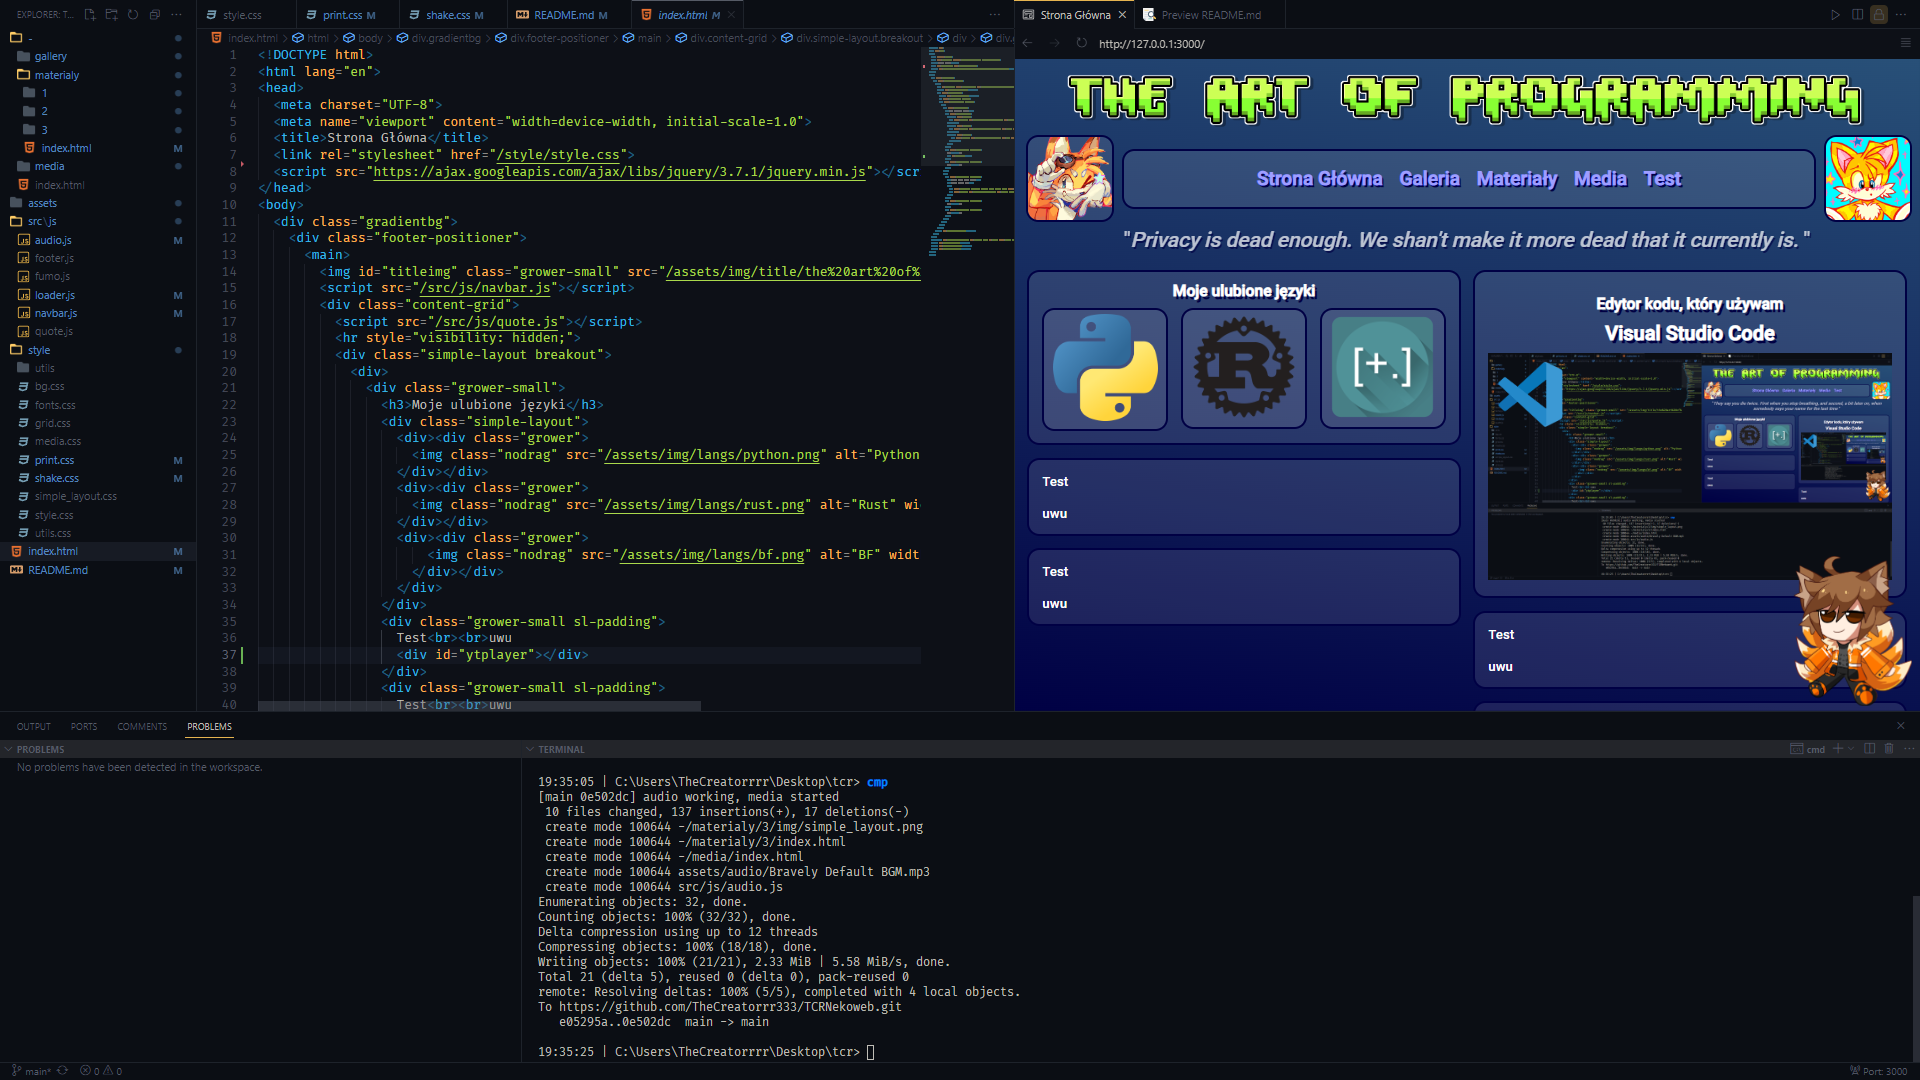
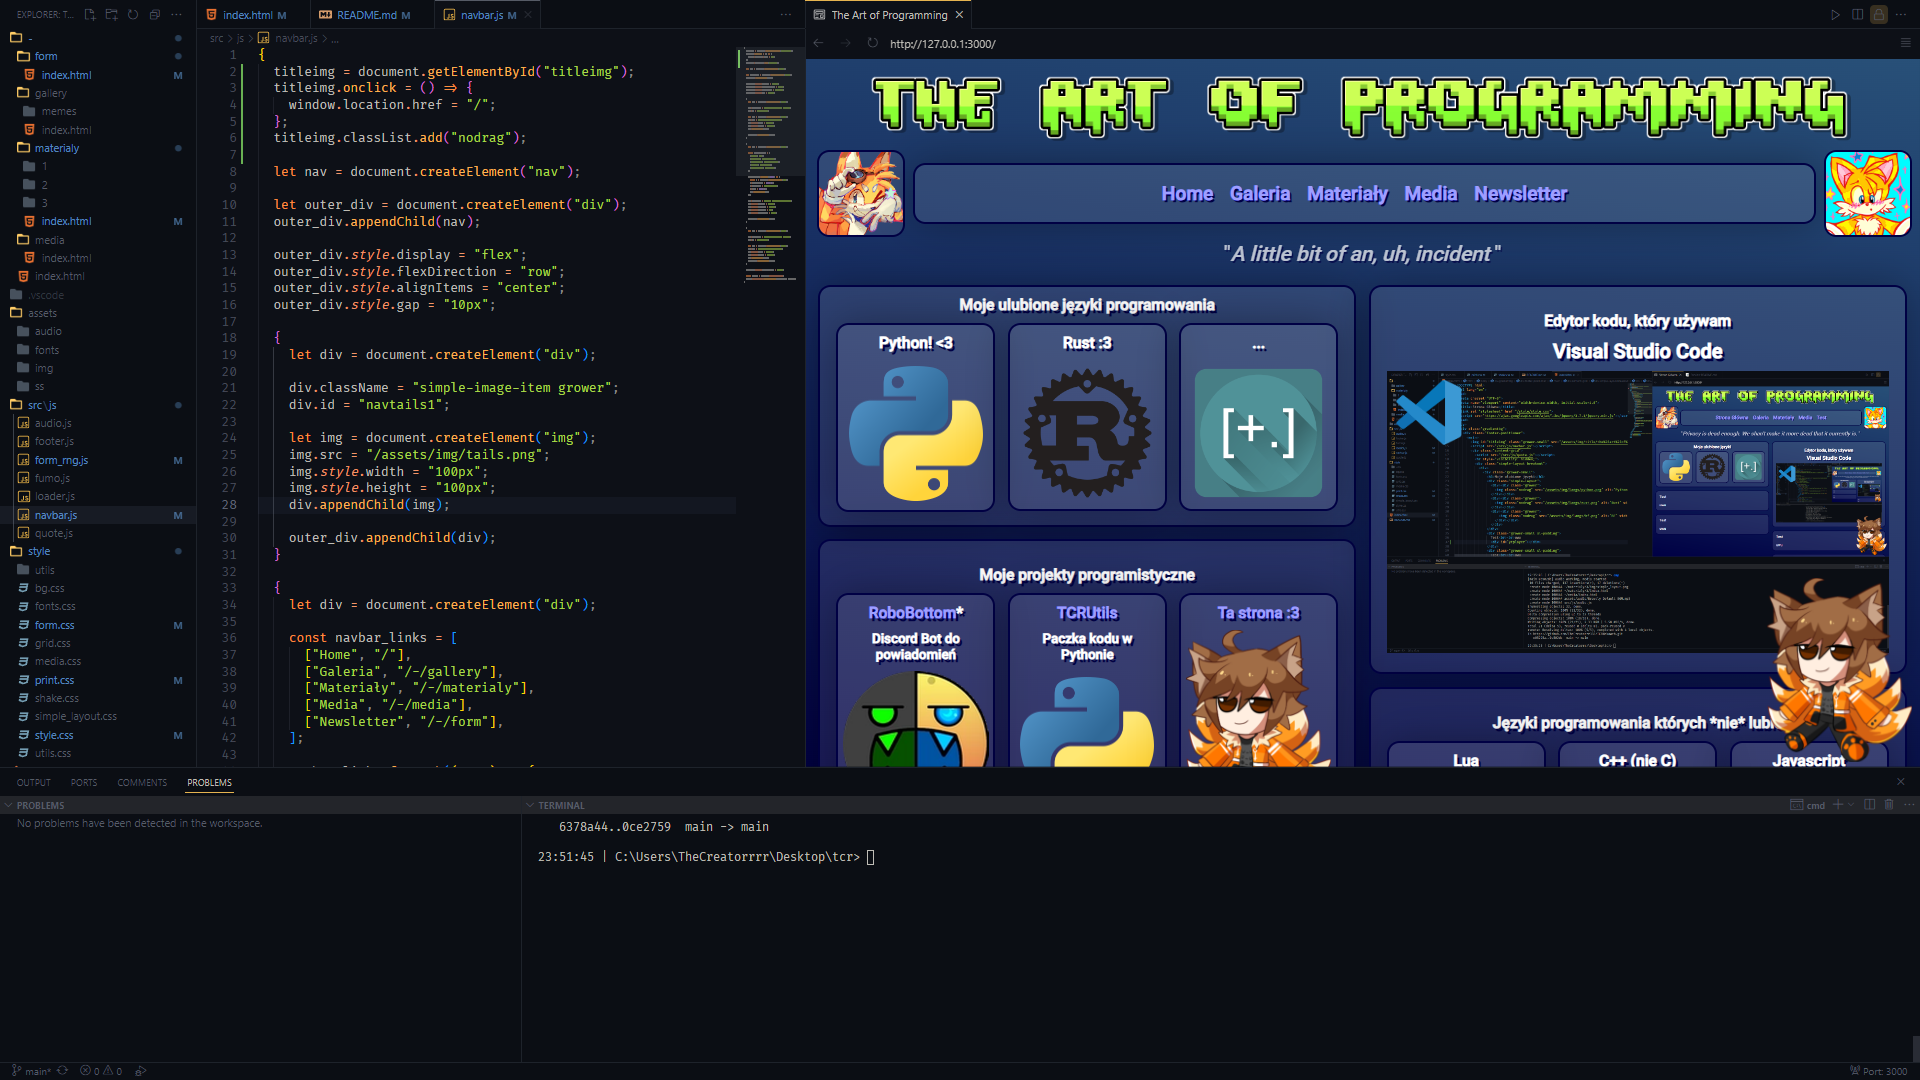
przed vali-konia-datorem

diff --git a/-/form/index.html b/-/form/index.html
@@ -3,7 +3,7 @@
   <head>
     <meta charset="UTF-8" />
     <meta name="viewport" content="width=device-width, initial-scale=1.0" />
-    <title>Materiały</title>
+    <title>Newsletter</title>
     <link rel="stylesheet" href="/style/style.css" />
     <script src="https://ajax.googleapis.com/ajax/libs/jquery/3.7.1/jquery.min.js"></script>
     <link rel="stylesheet" href="/style/form.css" />
@@ -25,9 +25,10 @@
           <div class="simple-layout">
             <div>
               <div>
-                <form action="google.com">
+                <form action=".">
                   <input
                     class="simple-layout-item"
+                    title="Email"
                     type="email"
                     name="email"
                     id="email"
@@ -40,6 +41,7 @@
                     class="simple-layout-item"
                     type="text"
                     name="imie"
+                    title="Imię"
                     id="imie"
                     placeholder="Jan"
                     required
@@ -50,13 +52,32 @@
                     class="simple-layout-item"
                     type="text"
                     name="nazwisko"
+                    title="Nazwisko"
                     id="nazwisko"
                     placeholder="Kowalski"
                     required
                   />
                   <br />
 
-                  <button class="simple-layout-item" type="reset">
+                  <script>
+                    function handleReset(event) {
+                      // Call the default action (reset the form)
+                      event.currentTarget.form.reset();
+
+                      // Remove parameters from the URL
+                      history.replaceState(
+                        {},
+                        document.title,
+                        window.location.pathname
+                      );
+                    }
+                  </script>
+
+                  <button
+                    class="simple-layout-item"
+                    type="reset"
+                    onclick="handleReset(event)"
+                  >
                     Anuluj
                   </button>
                   <button class="simple-layout-item" type="submit">
@@ -67,7 +88,6 @@
             </div>
           </div>
         </div>
-        <div style="padding-bottom: 300px"></div>
       </main>
       <script src="/src/js/footer.js"></script>
     </div>

diff --git a/style/style.css b/style/style.css
@@ -9,15 +9,16 @@
 @import url(/style/utils/navbar.css);
 @import url(/style/utils/footer.css);
 
-:root{
-  --color-primary: rgb(40,80,120);
+:root {
+  --color-primary: rgb(40, 80, 120);
   --color-secondary: rgb(0, 0, 68);
-  --color-link: rgb(d0adf0)
+  --color-link: rgb(d0adf0);
 
-  --content-min-height: 750px
+  --content-min-height: 79vh;
+  --roundedness: min(2vh, 15px);
 }
 
-*{
+* {
   margin: 0;
   font-family: Roboto;
   box-sizing: border-box;
@@ -25,54 +26,66 @@
   cursor: url(/assets/img/cursor.png), auto;
 }
 
-a, button, .clickable-cursor, .clickable-cursor *{
+a,
+button,
+.clickable-cursor,
+.clickable-cursor * {
   cursor: pointer;
 }
 
-*:has(a), a{
+*:has(a),
+a {
   text-decoration: none;
 }
 
-*::-webkit-scrollbar{
+*::-webkit-scrollbar {
   display: none;
 }
 
-html{
+html {
   color-scheme: dark;
 }
 
-body{
+body {
   position: relative;
 }
 
-code{
-  font-family: "Consolas", monospace
+code {
+  font-family: "Consolas", monospace;
 }
 
-h1, h2, h3, h4, h5, h6{
+h1,
+h2,
+h3,
+h4,
+h5,
+h6 {
   margin: 10px;
   text-align: center;
   text-shadow: var(--color-secondary) 3px 3px;
 }
 
-#titleimg{
+#titleimg {
   width: 90%;
   display: block;
   margin: auto auto;
   box-sizing: border-box;
   min-height: 50px;
+  cursor: pointer;
 }
 
-p, .text, .text *{
+p,
+.text,
+.text * {
   text-shadow: var(--color-secondary) 2px 2px;
   text-align: justify;
 }
 
-main{
+main {
   min-height: var(--content-min-height);
 }
 
-header{
+header {
   display: flex;
   justify-content: center;
   align-items: center;
@@ -88,12 +101,12 @@ header > img {
   flex-grow: 2;
 }
 
-hr{
+hr {
   margin-top: 10px;
   margin-bottom: 10px;
 }
 
-img#fumo{
+img#fumo {
   position: fixed;
   right: 0;
   bottom: 0;
@@ -103,25 +116,25 @@ img#fumo{
 
 .gradientbg,
 .footer-positioner,
-main{
+main {
   padding-left: 0 !important;
   padding-right: 0 !important;
 }
 
-.opacity10{
+.opacity10 {
   opacity: 0.1;
 }
 
-*:has(.notakeupspace){
+*:has(.notakeupspace) {
   position: relative;
 }
 
-.notakeupspace{
+.notakeupspace {
   position: absolute;
   margin-left: 10px;
   white-space: nowrap;
 }
 
-.todo{
+.todo {
   background-color: #ff8000;
 }

diff --git a/src/js/form_rng.js b/src/js/form_rng.js
@@ -4,6 +4,17 @@
     return array[randomIndex];
   }
 
+  params = (() => {
+    var params = {};
+    queryString = window.location.search.substring(1);
+    var paramArray = queryString.split("&");
+    for (var i = 0; i < paramArray.length; i++) {
+      var pair = paramArray[i].split("=");
+      params[decodeURIComponent(pair[0])] = decodeURIComponent(pair[1]);
+    }
+    return params;
+  })();
+
   // ---------------------------------------------------------------- //
 
   let pool = [
@@ -13,6 +24,7 @@
     { email: "jeff.bezos", imie: "Jeffrey", nazwisko: "Bezos" },
     { email: "tom@tomscott.com", imie: "Tom", nazwisko: "Scott" },
     { email: "emmet.brown@aol.com", imie: "Emmet", nazwisko: "Brown" },
+    { email: "colon@gdcolon.com", imie: "Craig", nazwisko: "Kitsune" },
   ];
 
   // ---------------------------------------------------------------- //
@@ -26,6 +38,18 @@
   let INazwisko = document.getElementById("nazwisko");
 
   let C = choice(pool);
+
+  if (params.email) {
+    IEmail.value = params.email;
+  }
+
+  if (params.imie) {
+    IImie.value = params.imie;
+  }
+
+  if (params.nazwisko) {
+    INazwisko.value = params.nazwisko;
+  }
 
   IEmail.placeholder = C.email.indexOf("@") !== -1 ? C.email : `${C.email}@${choice(emails)}`; // prettier-ignore
   IImie.placeholder = C.imie;

diff --git a/index.html b/index.html
@@ -24,7 +24,7 @@
             <div class="simple-layout breakout">
               <div>
                 <div class="grower-small">
-                  <h3>Moje ulubione języki programowania</h3>
+                  <h2>Moje ulubione języki programowania</h2>
                   <div class="simple-layout">
                     <div>
                       <div class="grower">
@@ -62,8 +62,8 @@
                     </div>
                   </div>
                 </div>
-                <div class="grower-small sl-padding">
-                  <h3>Moje projekty programistyczne</h3>
+                <div class="grower-small sl-padding" style="padding-top: 0px">
+                  <h2>Moje projekty programistyczne</h2>
                   <div class="simple-layout">
                     <div>
                       <div class="grower">
@@ -125,8 +125,7 @@
               </div>
               <div>
                 <div class="grower-small sl-padding">
-                  <h3>Edytor kodu, który używam</h3>
-                  <h2>Visual Studio Code</h2>
+                  <h3>Edytor kodu, który używam: Visual Studio Code</h3>
                   <div>
                     <img
                       id="smallvscodelogo"

diff --git a/style/simple_layout.css b/style/simple_layout.css
@@ -48,9 +48,9 @@
 .simple-layout:not(.sl-invisible) > div > div,
 .simple-layout:not(.sl-invisible) > div > a > div,
 .simple-layout-item {
-  box-shadow: 0 0 50px rgba(0, 0, 0, .3);
+  box-shadow: 0 0 50px rgba(0, 0, 0, 0.3);
 
-  border-radius: min(2vh, 15px);
+  border-radius: var(--roundedness);
 
   border: var(--color-secondary) 3px solid;
 
@@ -60,7 +60,7 @@
 .simple-image-item {
   background-color: rgba(255, 255, 255, 0.1);
   border: 3px var(--color-secondary) solid;
-  border-radius: min(2vh, 15px);
+  border-radius: var(--roundedness);
   overflow: hidden;
 }
 

diff --git a/src/js/navbar.js b/src/js/navbar.js
@@ -1,4 +1,10 @@
 {
+  titleimg = document.getElementById("titleimg");
+  titleimg.onclick = () => {
+    window.location.href = "/";
+  };
+  titleimg.classList.add("nodrag");
+
   let nav = document.createElement("nav");
 
   let outer_div = document.createElement("div");
@@ -13,7 +19,7 @@
     let div = document.createElement("div");
 
     div.className = "simple-image-item grower";
-    div.id = "navtails1";
+  div.id = "navtails1";
 
     let img = document.createElement("img");
     img.src = "/assets/img/tails.png";

diff --git a/style/form.css b/style/form.css
@@ -36,3 +36,24 @@ input {
 input::placeholder {
   color: rgba(255, 255, 255, 0.6);
 }
+
+label > h3 {
+  text-align: left;
+  background-color: red !important;
+  display: inline;
+}
+
+label {
+  display: inline;
+  background-color: yellow !important;
+}
+
+@media print {
+  input::placeholder {
+    color: gray !important;
+  }
+
+  input {
+    color: black !important;
+  }
+}

diff --git a/-/materialy/index.html b/-/materialy/index.html
@@ -57,7 +57,6 @@
             </div>
           </div>
         </div>
-        <div style="padding-bottom: 300px"></div>
       </main>
       <script src="/src/js/footer.js"></script>
     </div>

diff --git a/style/print.css b/style/print.css
@@ -39,6 +39,7 @@
   /* p, .text, .text *, h1, h2, h3, h4, h5, h6, */
   * {
     text-shadow: none !important;
+    box-shadow: none !important;
     color: black !important;
   }
 

diff --git a/README.md b/README.md
@@ -4,8 +4,9 @@
 - [x] zrobic footer z simple-layout
   - autoplay
 - [x] favicon
-- [ ] update vscode screenshot
 - [x] zmienic `audio = true` w `audio.js`
+- [ ] update vscode screenshot
+- [ ] finish newsletter
 
 ### Pages
 
@@ -16,3 +17,7 @@
 
 - [ ] FIX @PRINT
 - [ ] VALIDATOR
+
+# Deploy
+
+- [ ] Deploy to nekoweb
